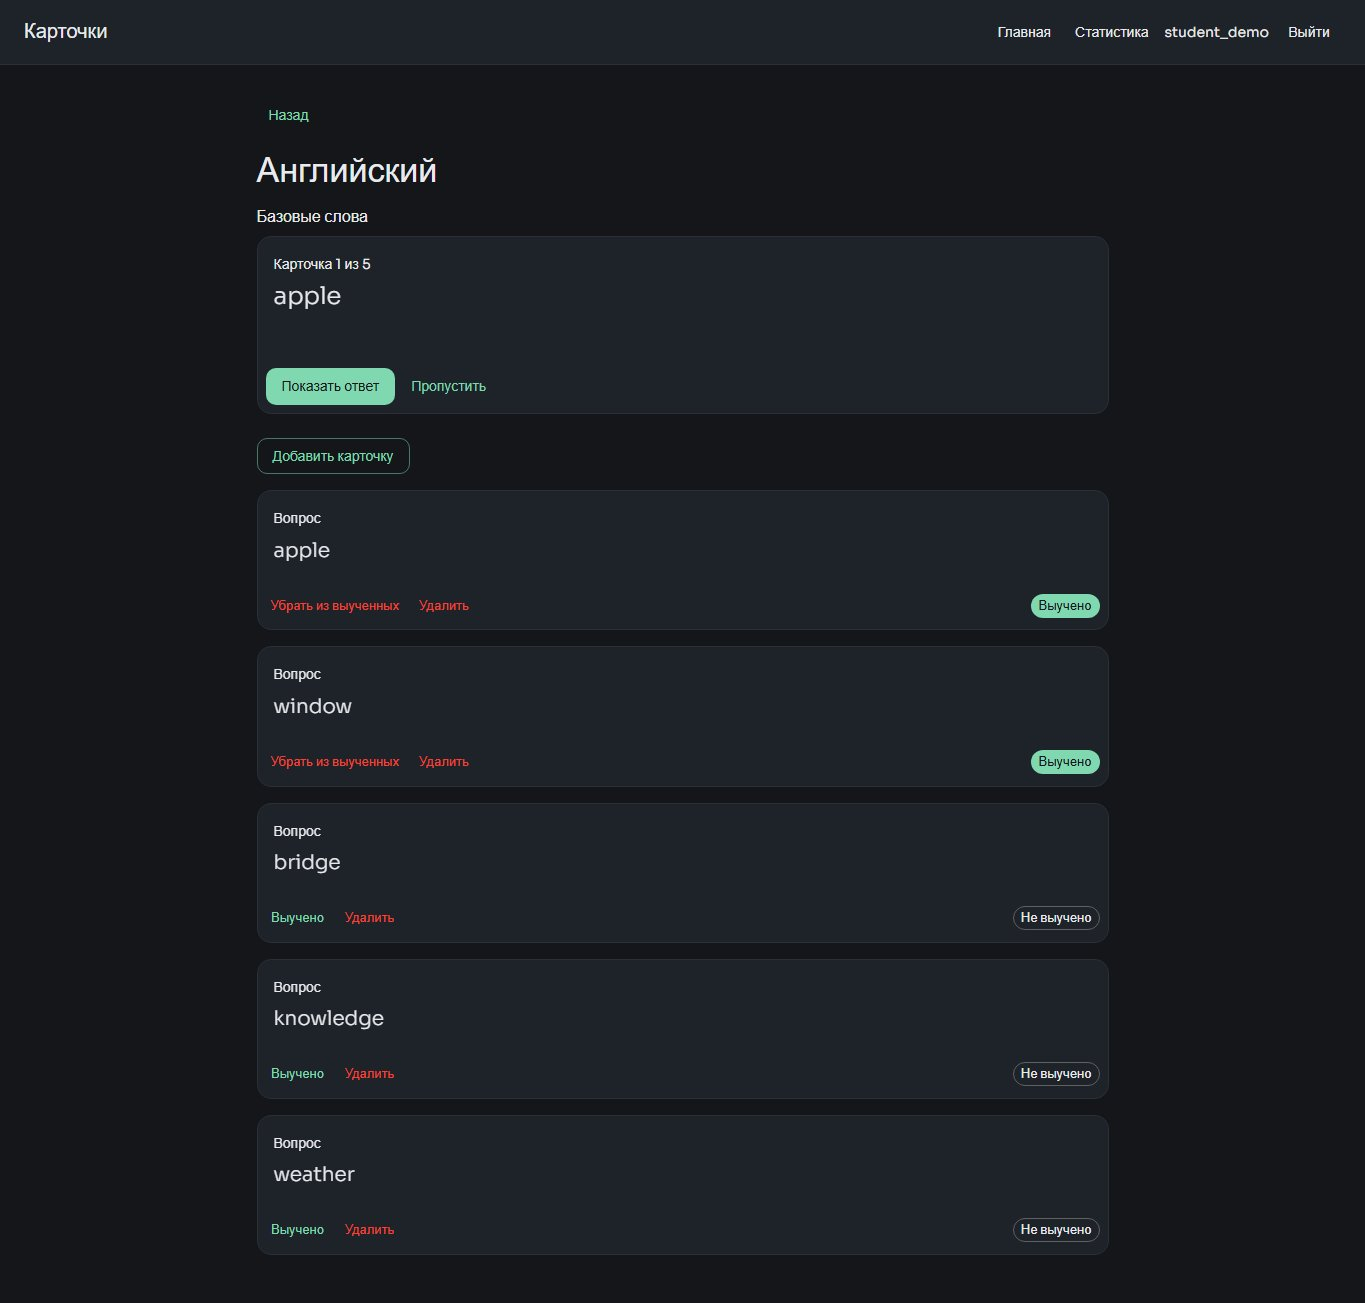
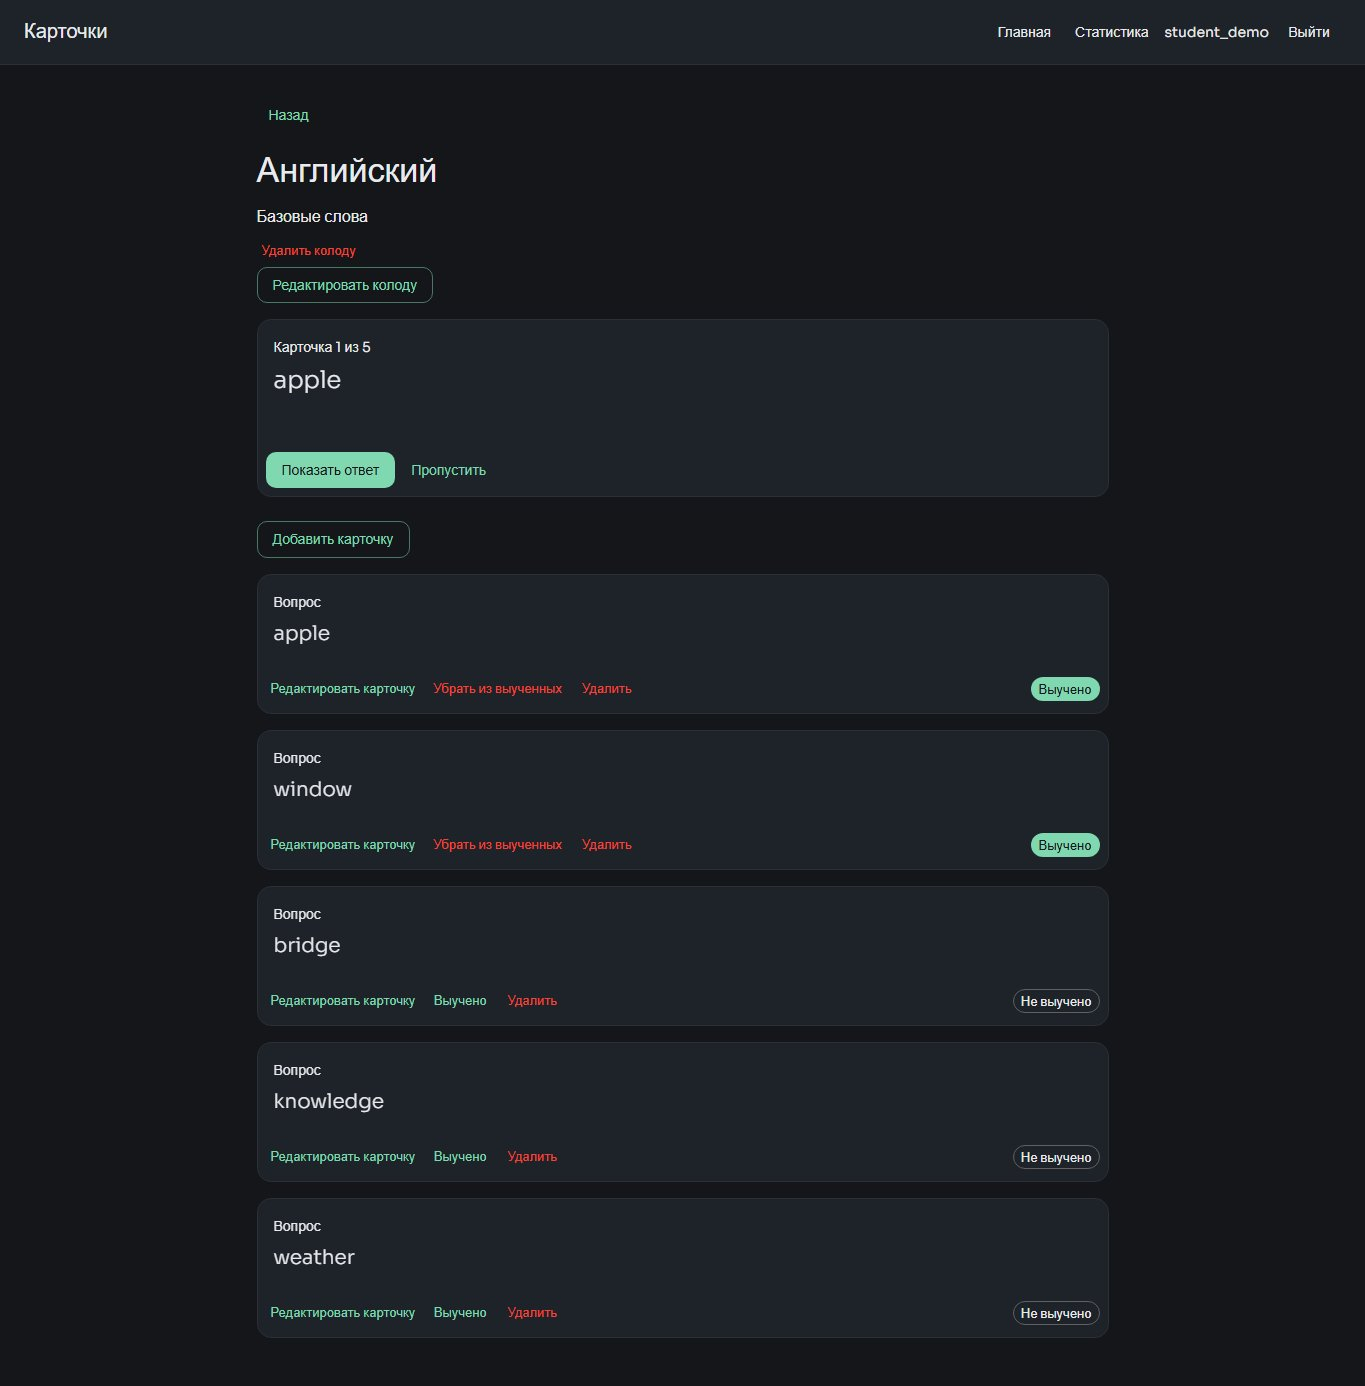
README и скриншоты готового MVP

diff --git a/README.md b/README.md
@@ -6,8 +6,11 @@
 
 - Посмотреть свои колоды
 - Создать колоду
+- Изменить название и описание колоды
+- Удалить колоду вместе с карточками
 - Открыть колоду и посмотреть карточки в ней
 - Добавить карточку
+- Изменить вопрос и ответ карточки
 - Удалить карточку
 - Перевернуть карточку, чтобы посмотреть ответ
 - Пройти колоду: смотрю вопрос, вспоминаю, показываю ответ, иду дальше
@@ -28,17 +31,17 @@
 
 ## Интерфейс
 
-Что сделано в ЛР3 поверх экранов из ЛР1.
+Интерфейс из ЛР1 и ЛР3 подключён к API в ЛР5.
 
-**Состояние.** Колоды хранятся в общем хранилище (`DecksProvider`: React context + `useReducer`). Добавленные и удалённые карточки, отметки «выучено» и новые колоды сразу видны на всех экранах, например в статистике. Данные живут до перезагрузки страницы или выхода из аккаунта, сохранение появится вместе с подключением API в ЛР5. При смене пользователя хранилище сбрасывается.
+**Состояние.** Колоды загружаются из PostgreSQL через API и хранятся на клиенте в `DecksProvider` (React context + `useReducer`). Изменения появляются на экранах после успешного ответа сервера и сохраняются после перезагрузки или повторного входа. При смене пользователя клиентское хранилище сбрасывается и загружает данные нового аккаунта.
 
-**Загрузка, ошибка, пустые данные.** Колоды загружаются асинхронно через `fetchDecks()` (пока моки с задержкой 600 мс). На каждом экране с данными есть все состояния:
+**Загрузка, ошибка, пустые данные.** Колоды загружаются асинхронно через `fetchDecks()` из API. На каждом экране с данными есть состояния:
 
 | Состояние | Что видно |
 | --- | --- |
 | загрузка | спиннер с подписью |
-| ошибка (`?fail`) | сообщение и кнопка «Повторить» |
-| нет данных (`?empty`) | подсказка, что делать дальше |
+| ошибка запроса | сообщение и кнопка «Повторить» |
+| нет данных в БД | подсказка, что делать дальше |
 | колода не найдена | сообщение и кнопка на главную |
 
 **Валидация форм.** Проверка на клиенте, лимиты совпадают с backend:
@@ -56,11 +59,13 @@
 
 - карточка переворачивается в 3D при клике и в тренажёре по кнопке «Показать ответ»;
 - формы раскрываются и скрываются по кнопкам «Новая колода» и «Добавить карточку»;
-- новые карточки плавно появляются, удалённые сворачиваются;
+- новые карточки плавно появляются;
 - колоды на главной появляются по очереди;
 - при переходе между страницами содержимое плавно проявляется.
 
 Если в системе включено уменьшение движения, переворот карточки идёт без анимации.
+
+В ЛР5 удаление сначала ждёт подтверждения сервера. Анимация сворачивания перед удалением убрана, чтобы ошибка запроса не скрывала карточку из списка.
 
 ## Модель данных
 
@@ -147,10 +152,7 @@ npm run dev
 
 Откроется на http://localhost:5173
 
-Регистрация, вход, восстановление сессии и выход работают с настоящим backend. Колоды и статистика пока используют моки из ЛР3; подключение CRUD к API относится к ЛР5. После входа можно посмотреть состояния колод, добавив к адресу:
-
-- `?fail` — ошибка загрузки;
-- `?empty` — пустой список колод.
+Регистрация, вход, колоды, карточки и статистика работают с настоящим backend и PostgreSQL. Новый аккаунт получает пустой список колод. Демонстрационных данных и переключателей `?fail` / `?empty` больше нет. Для проверки ошибки загрузки можно временно остановить backend, обновить страницу и затем повторить запрос после запуска сервера.
 
 Сборка:
 
@@ -181,6 +183,24 @@ Access хранится только в памяти frontend. При перез
 
 Без access приватный API возвращает 401. Колоды в списке фильтруются по владельцу. Чужая колода или карточка возвращает 404 при просмотре, изменении и удалении. `/health`, страницы входа и регистрации доступны без входа.
 
+## Интеграция — ЛР5
+
+Главная, страница колоды, тренажёр и статистика используют данные одного пользователя из PostgreSQL. `GET /decks` возвращает колоды вместе с карточками; backend загружает карточки через `selectinload`, без отдельного запроса для каждой колоды.
+
+| Действие в интерфейсе | Запрос |
+| --- | --- |
+| Загрузить колоды, карточки и статистику | `GET /decks` |
+| Создать колоду | `POST /decks` |
+| Изменить название и описание | `PATCH /decks/{id}` |
+| Удалить колоду и её карточки | `DELETE /decks/{id}` |
+| Добавить карточку | `POST /decks/{id}/cards` |
+| Изменить вопрос, ответ или отметку «выучено» | `PATCH /cards/{id}` |
+| Удалить карточку | `DELETE /cards/{id}` |
+
+После сохранения хранилище получает значения из ответа API. Счётчики карточек и прогресс обновляются на всех экранах. Создание и редактирование используют общие формы с одинаковой валидацией. При ошибке поля сохраняют введённые значения, а во время запроса повторная отправка блокируется. Удаление требует подтверждения и меняет интерфейс только после успешного ответа сервера.
+
+Для проверки MVP: зарегистрируйся, создай колоду, добавь карточку, измени её вопрос и ответ, отметь выученной и посмотри статистику. Перезагрузи страницу и войди заново — данные должны остаться. Другой аккаунт не видит эти колоды. Удаление колоды удаляет связанные карточки.
+
 ## Проверка
 
 Тесты backend из папки `backend`:
@@ -199,9 +219,10 @@ Access хранится только в памяти frontend. При перез
 ```powershell
 backend\.venv\Scripts\python.exe -m playwright install chromium
 backend\.venv\Scripts\python.exe -X utf8 frontend\tests\auth_browser.py
+backend\.venv\Scripts\python.exe -X utf8 frontend\tests\crud_browser.py
 ```
 
-Скрипт создаёт два тестовых аккаунта и проверяет формы, закрытые маршруты, перезагрузку, обновление access, выход, смену аккаунта и ошибки сети. При изменении адреса frontend нужно обновить URL в скрипте.
+Скрипты создают тестовые аккаунты и записи в запущенном приложении. Они проверяют авторизацию, CRUD через интерфейс, сохранность после перезагрузки, статистику, права двух пользователей и обработку ошибок. При изменении адреса frontend нужно обновить URL в скриптах.
 
 ## Структура
 
@@ -230,15 +251,18 @@ src/
     login/         вход
     register/      регистрация
   features/      действия пользователя
-    create-deck/   форма создания колоды и её валидация
-    add-card/      форма добавления карточки и её валидация
+    create-deck/   создание колоды через общую форму
+    edit-deck/     редактирование колоды
+    remove-deck/   удаление колоды с подтверждением
+    add-card/      добавление карточки через общую форму
+    edit-card/     редактирование карточки в диалоге
     train-deck/    тренажёр по колоде
     toggle-learned/ отметка «выучено»
     remove-card/   удаление карточки
     auth/          форма входа/регистрации и защита маршрутов
   entities/      сущности предметной области
-    card/          тип Card и отображение карточки
-    deck/          тип Deck, хранилище колод (context + useReducer), фейковый api на моках, список колод
+    card/          тип Card, API, форма, валидация и отображение карточки
+    deck/          тип Deck, API, хранилище колод, форма, валидация и список колод
     user/          текущий пользователь, вход, выход и восстановление сессии
   shared/        общий код без привязки к предметной области
     ui/            EmptyState, Loader, ErrorMessage, NotFoundMessage,
@@ -250,7 +274,8 @@ src/
 
 Правила:
 
-- слой импортирует только из слоёв ниже: `app → pages → features → entities → shared`;
+- основное направление импортов: `app → pages → features → entities → shared`;
+- `deck` использует типы и API `card`, поскольку карточки входят в колоду;
 - каждый модуль отдаёт наружу только то, что есть в его `index.ts`, импорты снаружи идут через него;
 - между слоями импорты через алиас `@/` (`@/entities/deck`), внутри модуля относительные.
 
@@ -263,6 +288,9 @@ src/
 ![Вход](docs/screenshots/login.jpg)
 ![Регистрация](docs/screenshots/register.jpg)
 ![Ошибка входа](docs/screenshots/login-error.jpg)
+![Редактирование колоды](docs/screenshots/edit-deck.jpg)
+![Редактирование карточки](docs/screenshots/edit-card.jpg)
+![Подтверждение удаления](docs/screenshots/delete-confirm.jpg)
 
 Состояния и формы:
 
@@ -271,4 +299,4 @@ src/
 ![Пустой список](docs/screenshots/empty.jpg)
 ![Ошибки в форме карточки](docs/screenshots/form-errors.jpg)
 
-В ЛР4 добавлены формы входа и регистрации, имя пользователя и кнопка выхода в шапке. Скриншоты основных экранов обновлены под эту навигацию; экраны колод остаются на демонстрационных данных до ЛР5.
+В ЛР4 добавлены вход, регистрация и управление сессией. В ЛР5 обновлены экраны колод и карточек: появились редактирование, подтверждение удаления и работа с настоящим API. Скриншоты сделаны с записями, сохранёнными в отдельной PostgreSQL для проверки приложения.
